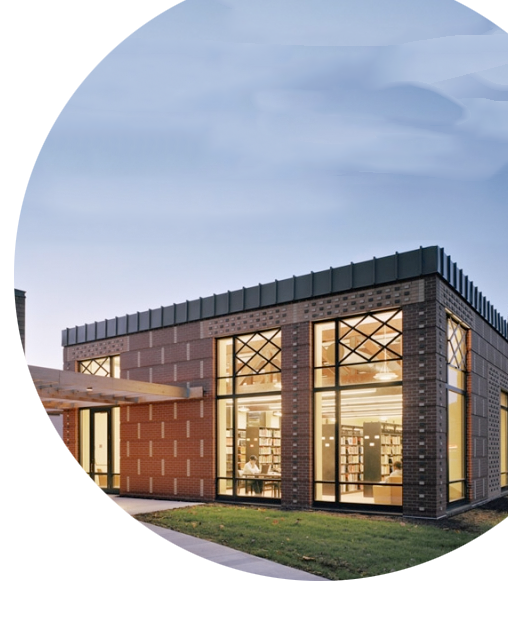
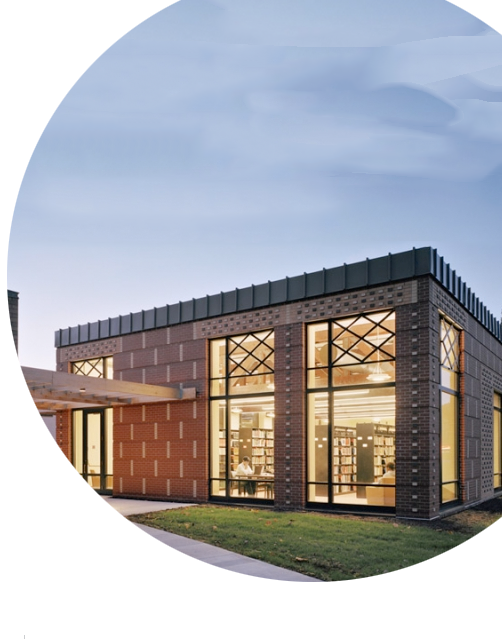
world on home hero image

diff --git a/css/styles.css b/css/styles.css
@@ -6252,6 +6252,9 @@ _\ \ | | | | | (_| | | |  / / | (_| | |_) | |  __/ |_\__ \
     top: 0;
     left: initial;
     right: 20px; } }
+@media (min-width: 1519px) {
+  .front .hero {
+    right: 0; } }
 @media (min-width: 1550px) {
   .front .hero {
     width: 508px;

diff --git a/bootstrap/stylesheets/bootstrap/_styles.scss b/bootstrap/stylesheets/bootstrap/_styles.scss
@@ -2093,6 +2093,14 @@ _\ \ | | | | | (_| | | |  / / | (_| | |_) | |  __/ |_\__ \
 
 
 }
+@media (min-width: 1519px) { 
+
+.front .hero {
+
+
+		right: 0;
+	}
+}
 
 @media (min-width: 1550px) { 
 
